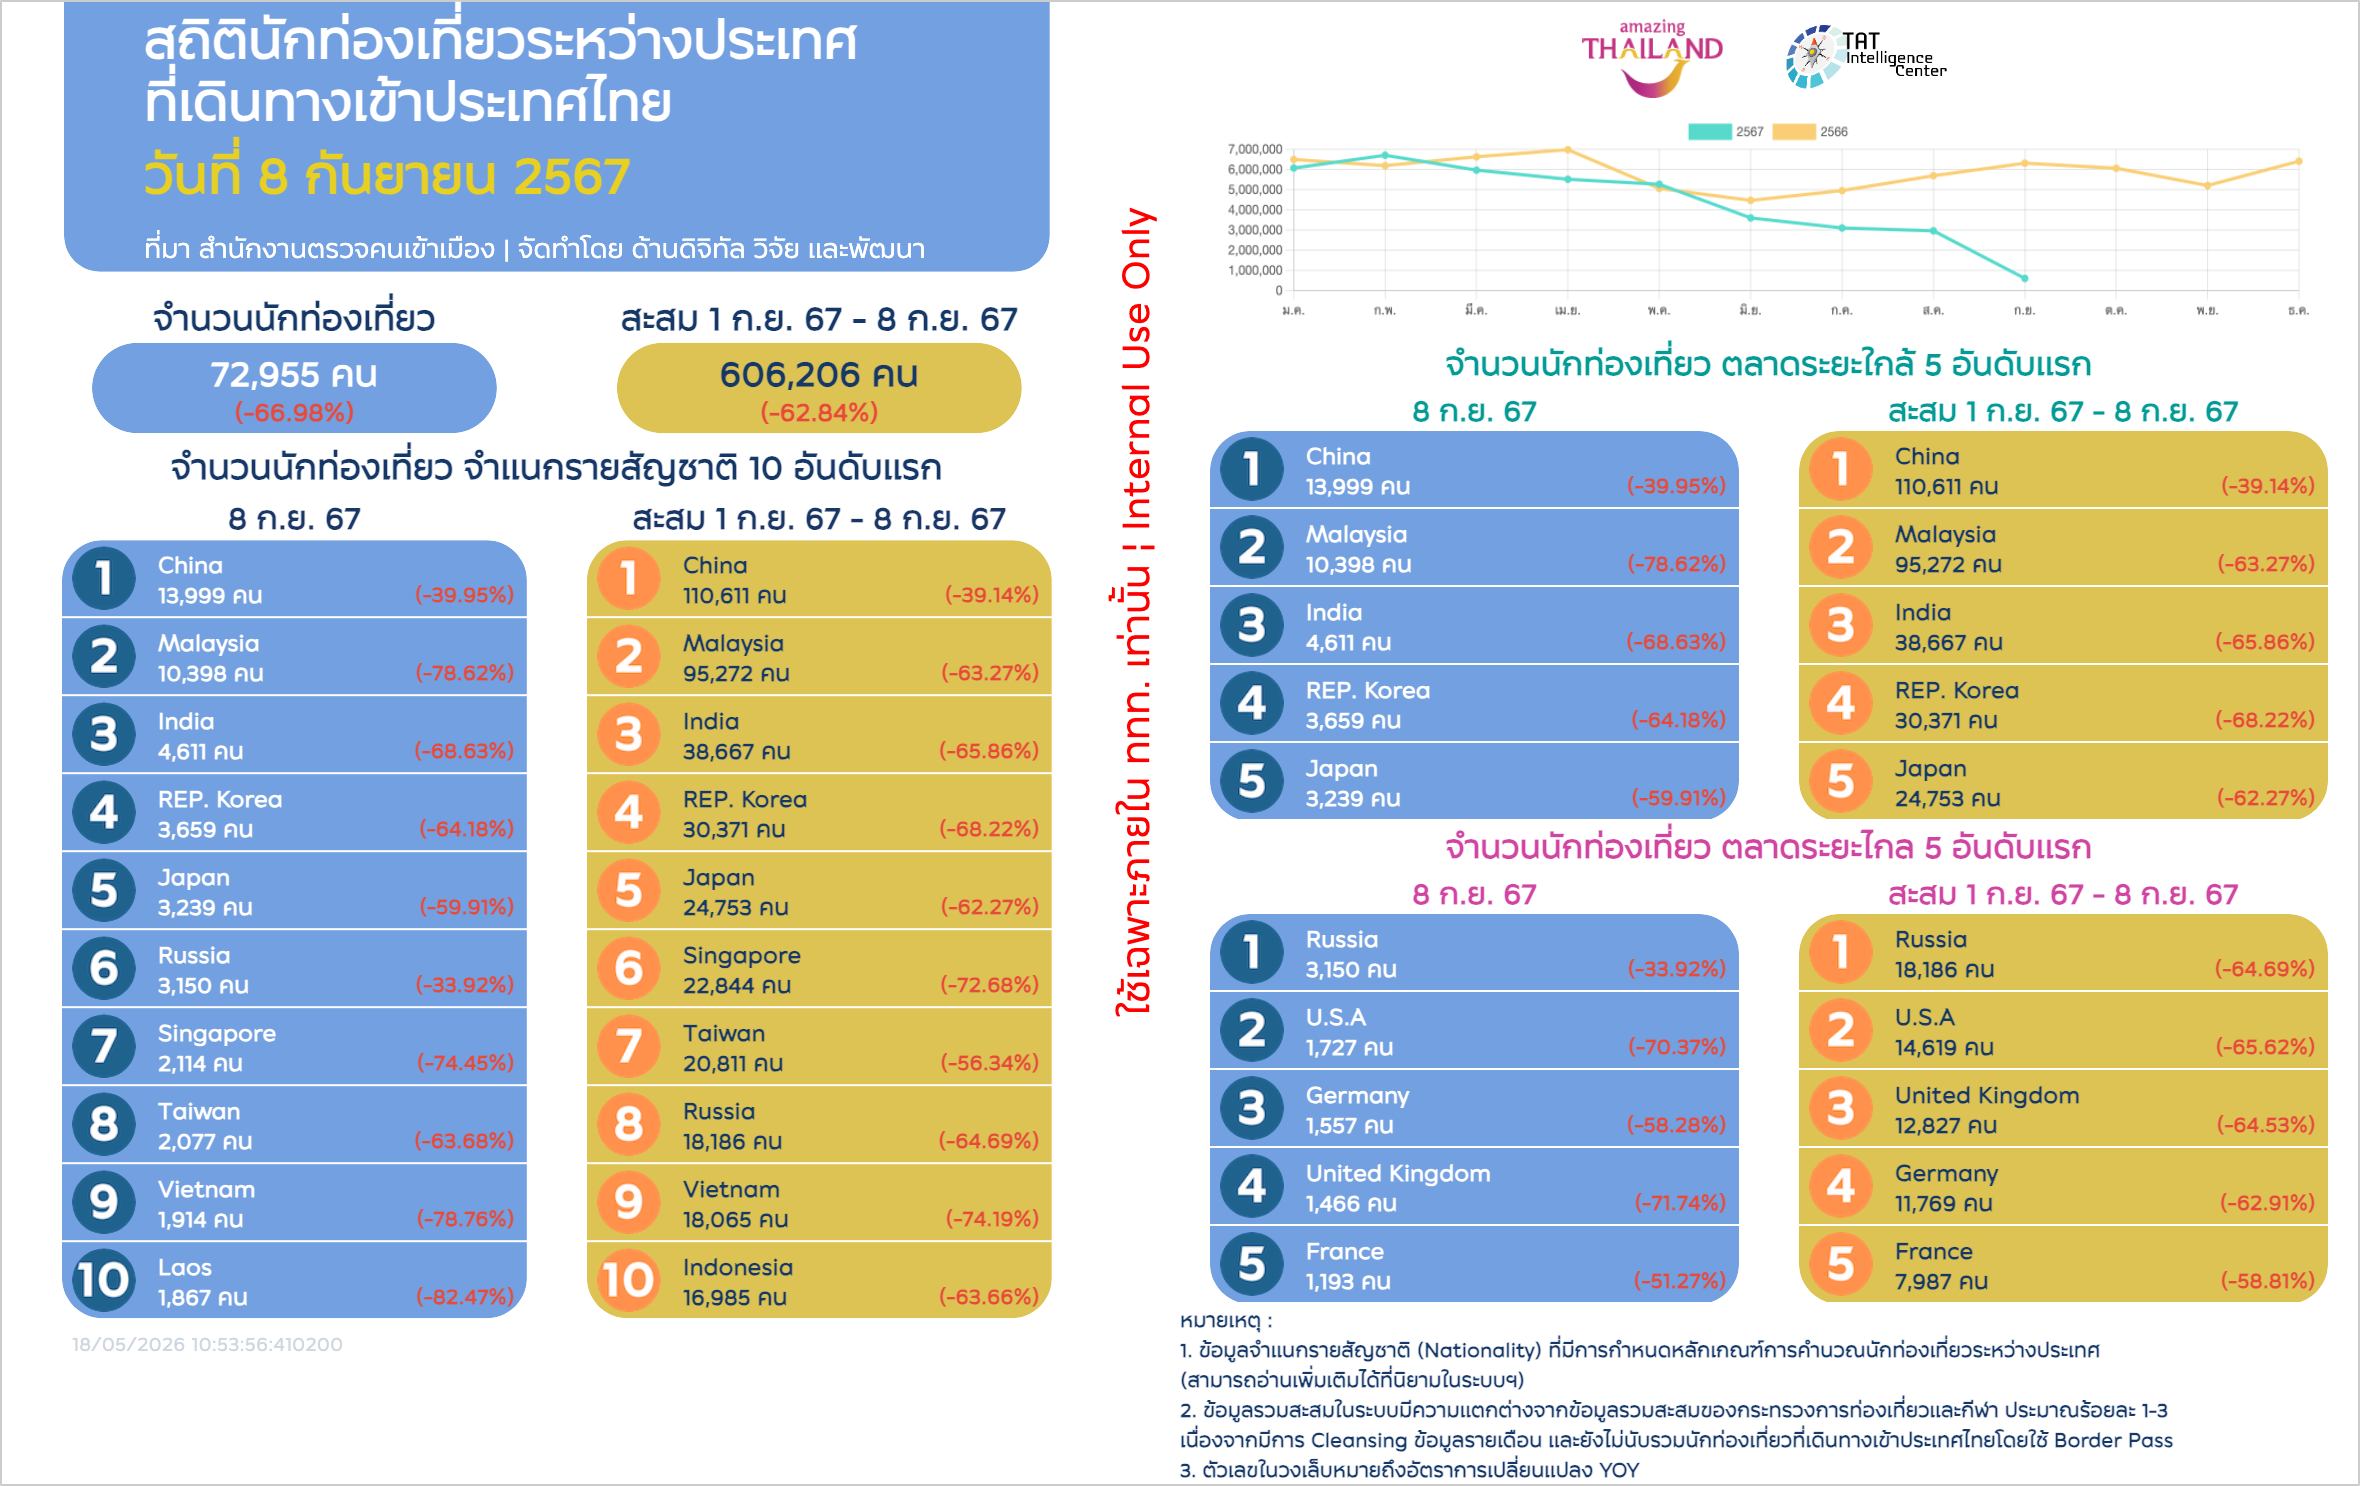
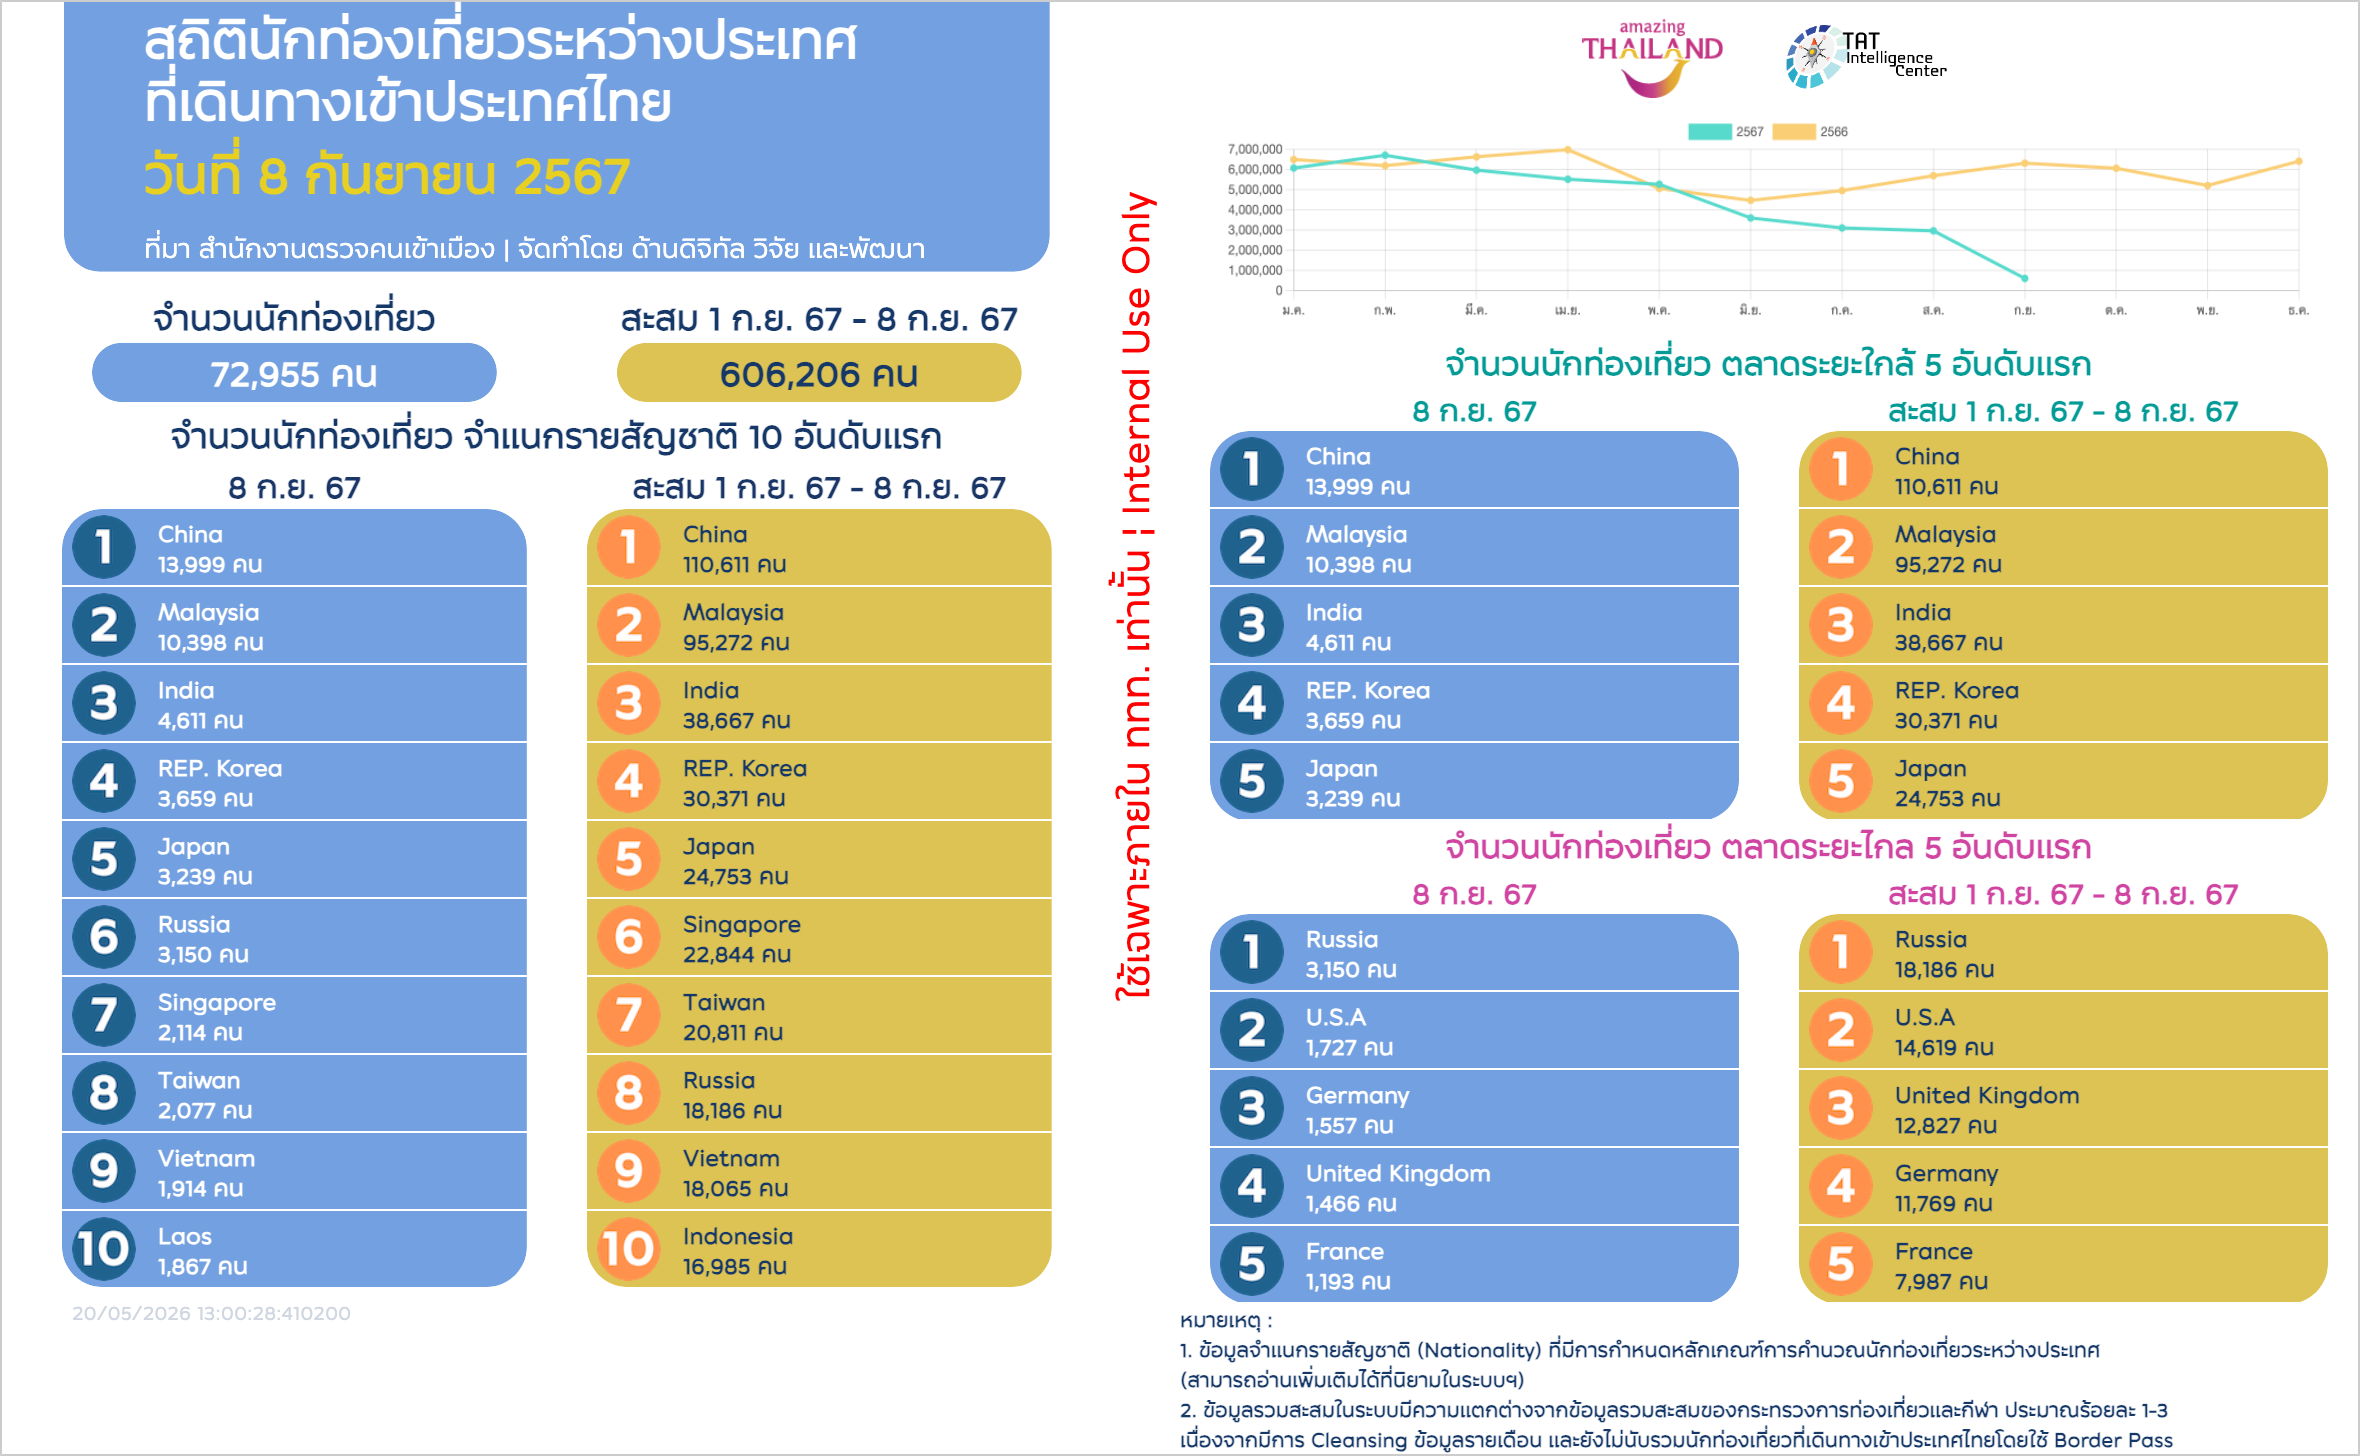
update dashboard %YoY ON:OFF

diff --git a/modules/Main/Views/export/dashboard_view.php b/modules/Main/Views/export/dashboard_view.php
@@ -309,9 +309,19 @@ foreach (['Short', 'Long'] as $t) {
 	}
 }
 
+if (!function_exists('yoyConfig')) {
+	function yoyConfig($enabled = null)
+	{
+		static $state = true;
+		if ($enabled !== null) $state = (bool)$enabled;
+		return $state;
+	}
+}
+
 if (!function_exists('yoyBadge')) {
 	function yoyBadge($curr, $past, $size = 11)
 	{
+		if (!yoyConfig()) return '';
 		if (empty($past) || $past == 0) {
 			return '<span style="color:#999;font-size:' . $size . 'px;font-weight:bold;">N/A</span>';
 		}
@@ -325,6 +335,7 @@ if (!function_exists('yoyBadge')) {
 if (!function_exists('yoyInline')) {
 	function yoyInline($curr, $past, $size = 11)
 	{
+		if (!yoyConfig()) return '';
 		if (empty($past) || $past == 0) {
 			return '<span style="color:#cccccc;font-size:' . $size . 'px;font-weight:bold;white-space:nowrap;">(N/A)</span>';
 		}
@@ -333,6 +344,9 @@ if (!function_exists('yoyInline')) {
 		return '<span style="color:' . $color . ';font-size:' . $size . 'px;font-weight:bold;white-space:nowrap;">(' . number_format($pct, 2) . '%)</span>';
 	}
 }
+
+$show_yoy = !isset($_GET['show_yoy']) || $_GET['show_yoy'] != '0';
+yoyConfig($show_yoy);
 ?>
 
 <body style="width:1150px; height: 680px;margin: auto;">
@@ -342,13 +356,22 @@ if (!function_exists('yoyInline')) {
 		</div>
 		<div class="col-lg-11 col-12  my-md-auto text-center text-md-right my-3">
 			<div>
+				<?php
+				$toggle_url = current_url() . '?' . http_build_query(array_merge($_GET, ['show_yoy' => $show_yoy ? '0' : '1']));
+				$toggle_label = $show_yoy ? 'YoY: ON' : 'YoY: OFF';
+				$toggle_color = $show_yoy ? '#257A00' : '#888888';
+				$toggle_title = $show_yoy ? 'คลิกเพื่อซ่อน %YoY (มีผลกับ PDF ด้วย)' : 'คลิกเพื่อแสดง %YoY (มีผลกับ PDF ด้วย)';
+				?>
+				<button type="button" onclick="window.location.href='<?php echo $toggle_url; ?>'" class="btn shadow-1" title="<?php echo $toggle_title; ?>" style="background-color: <?php echo $toggle_color; ?>; color:#fff; font-weight:bold;">
+					<i class="fa-solid fa-percent"></i> <?php echo $toggle_label; ?>
+				</button>
 				<button type="button" onclick="SaveImg2ExportImg('<?php echo base_url('main/saveImg2Report'); ?>','png')" class="btn btn-info">
 					<i class="fa-solid fa-file-image"></i> PNG
 				</button>
 				<button type="button" onclick="SaveImg2ExportImg('<?php echo base_url('main/saveImg2ReportJPG'); ?>','jpg')" class="btn btn-info">
 					<i class="fa-solid fa-file-image"></i> JPG
 				</button>
-				<button type="button" onclick="window.open('<?php echo base_url('main/export_dashboard_v2?start_date=' . $start_date . '&end_date=' . $end_date); ?>')" class="btn btn-danger SetWidthbtnExport shadow-1">
+				<button type="button" onclick="window.open('<?php echo base_url('main/export_dashboard_v2?start_date=' . $start_date . '&end_date=' . $end_date . '&show_yoy=' . ($show_yoy ? '1' : '0')); ?>')" class="btn btn-danger SetWidthbtnExport shadow-1">
 					<i class="fa-solid fa-file-pdf"></i> PDF
 				</button>
 			</div>
@@ -386,7 +409,9 @@ if (!function_exists('yoyInline')) {
 										<div class="col-lg-12" style="text-align:center;">
 											<div style="background-color: #73A0E0; border-radius: 30px; color: white;text-align: center;padding: 4px 8px; font-weight: bold;white-space:nowrap;line-height:1.2;">
 												<div style="font-size: 18px;"><?php echo number_format($SumDateData); ?> คน</div>
+												<?php if ($show_yoy): ?>
 												<div style="font-size: 13px;"><?php echo yoyInline($SumDateData, $SumDateData_yoy, 13); ?></div>
+												<?php endif; ?>
 											</div>
 										</div>
 									</div>
@@ -399,7 +424,9 @@ if (!function_exists('yoyInline')) {
 										<div class="col-lg-12" style="text-align:center;">
 											<div style="background-color: #DDC354; border-radius: 30px; color:#163868;text-align: center;padding: 4px 8px; font-weight: bold;white-space:nowrap;line-height:1.2;">
 												<div style="font-size: 18px;"><?php echo number_format($SumMonthData); ?> คน</div>
+												<?php if ($show_yoy): ?>
 												<div style="font-size: 13px;"><?php echo yoyInline($SumMonthData, $SumMonthData_yoy, 13); ?></div>
+												<?php endif; ?>
 											</div>
 										</div>
 									</div>
@@ -692,8 +719,8 @@ if (!function_exists('yoyInline')) {
 						<div class="col-lg-12 " style="font-weight: bold; color: #fff; font-size:10px; color: #163868; padding: 0;">
 							หมายเหตุ : <br>
 							1. ข้อมูลจำแนกรายสัญชาติ (Nationality) ที่มีการกำหนดหลักเกณฑ์การคำนวณนักท่องเที่ยวระหว่างประเทศ <br>(สามารถอ่านเพิ่มเติมได้ที่นิยามในระบบฯ) <br>
-							2. ข้อมูลรวมสะสมในระบบมีความแตกต่างจากข้อมูลรวมสะสมของกระทรวงการท่องเที่ยวและกีฬา ประมาณร้อยละ 1-3 <br>เนื่องจากมีการ Cleansing ข้อมูลรายเดือน และยังไม่นับรวมนักท่องเที่ยวที่เดินทางเข้าประเทศไทยโดยใช้ Border Pass <br>
-								3. ตัวเลขในวงเล็บหมายถึงอัตราการเปลี่ยนแปลง YOY
+							2. ข้อมูลรวมสะสมในระบบมีความแตกต่างจากข้อมูลรวมสะสมของกระทรวงการท่องเที่ยวและกีฬา ประมาณร้อยละ 1-3 <br>เนื่องจากมีการ Cleansing ข้อมูลรายเดือน และยังไม่นับรวมนักท่องเที่ยวที่เดินทางเข้าประเทศไทยโดยใช้ Border Pass <?php if ($show_yoy): ?><br>
+								3. ตัวเลขในวงเล็บหมายถึงอัตราการเปลี่ยนแปลง YOY<?php endif; ?>
 						</div>
 					</div>
 				</div>

diff --git a/modules/Main/Views/export/dashboard.php b/modules/Main/Views/export/dashboard.php
@@ -219,9 +219,19 @@ foreach (['Short', 'Long'] as $t) {
     }
 }
 
+if (!function_exists('yoyConfig')) {
+    function yoyConfig($enabled = null)
+    {
+        static $state = true;
+        if ($enabled !== null) $state = (bool)$enabled;
+        return $state;
+    }
+}
+
 if (!function_exists('yoyBadge')) {
     function yoyBadge($curr, $past, $size = 11)
     {
+        if (!yoyConfig()) return '';
         if (empty($past) || $past == 0) {
             return '<span style="color:#999;font-size:' . $size . 'px;font-weight:bold;">N/A</span>';
         }
@@ -235,6 +245,7 @@ if (!function_exists('yoyBadge')) {
 if (!function_exists('yoyInline')) {
     function yoyInline($curr, $past, $size = 11)
     {
+        if (!yoyConfig()) return '';
         if (empty($past) || $past == 0) {
             return '<span style="color:#cccccc;font-size:' . $size . 'px;font-weight:bold;">(N/A)</span>';
         }
@@ -243,6 +254,9 @@ if (!function_exists('yoyInline')) {
         return '<span style="color:' . $color . ';font-size:' . $size . 'px;font-weight:bold;">(' . number_format($pct, 2) . '%)</span>';
     }
 }
+
+$show_yoy = !isset($_GET['show_yoy']) || $_GET['show_yoy'] != '0';
+yoyConfig($show_yoy);
 ?>
 
 <body>
@@ -305,11 +319,13 @@ if (!function_exists('yoyInline')) {
                                                             <?php echo number_format($SumDateData); ?> คน
                                                         </td>
                                                     </tr>
+                                                    <?php if ($show_yoy): ?>
                                                     <tr style="border: 0;padding: 0px 0px;">
                                                         <td style="color:white;text-align:center;padding:0 10px 5px;font-size:12px;font-weight:bold;">
                                                             <?php echo yoyInline($SumDateData, $SumDateData_yoy, 12); ?>
                                                         </td>
                                                     </tr>
+                                                    <?php endif; ?>
                                                 </tbody>
                                             </table>
                                         </div>
@@ -344,11 +360,13 @@ if (!function_exists('yoyInline')) {
                                                             <?php echo number_format($SumMonthData); ?> คน
                                                         </td>
                                                     </tr>
+                                                    <?php if ($show_yoy): ?>
                                                     <tr style="border: 0;padding: 0px 0px;">
                                                         <td class="colorText" style="text-align:center;padding:0 10px 5px;font-size:12px;font-weight:bold;">
                                                             <?php echo yoyInline($SumMonthData, $SumMonthData_yoy, 12); ?>
                                                         </td>
                                                     </tr>
+                                                    <?php endif; ?>
 
                                                 </tbody>
                                             </table>
@@ -799,8 +817,8 @@ if (!function_exists('yoyInline')) {
                     (สามารถอ่านเพิ่มเติมได้ที่นิยามในระบบฯ) <br>
                     2. ข้อมูลรวมสะสมในระบบมีความแตกต่างจากข้อมูลรวมสะสมของกระทรวงการท่องเที่ยวและกีฬา ประมาณร้อยละ 1-3
                     เนื่องจากมีการ Cleansing ข้อมูลรายเดือน และยังไม่นับรวมนักท่องเที่ยวที่เดินทางเข้าประเทศไทยโดยใช้
-                    Border Pass <br>
-                    3. ตัวเลขในวงเล็บหมายถึงอัตราการเปลี่ยนแปลง YOY
+                    Border Pass <?php if ($show_yoy): ?><br>
+                    3. ตัวเลขในวงเล็บหมายถึงอัตราการเปลี่ยนแปลง YOY<?php endif; ?>
                 </p>
             </div>
         </div>
